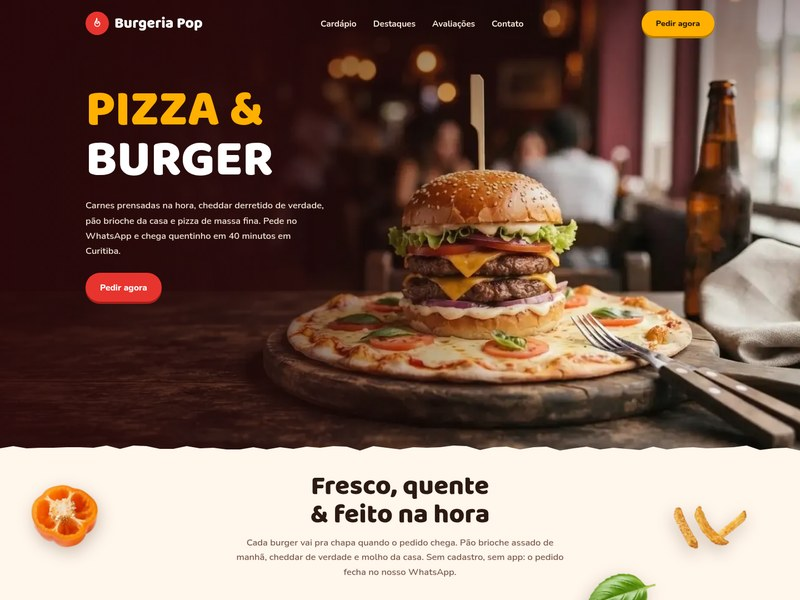
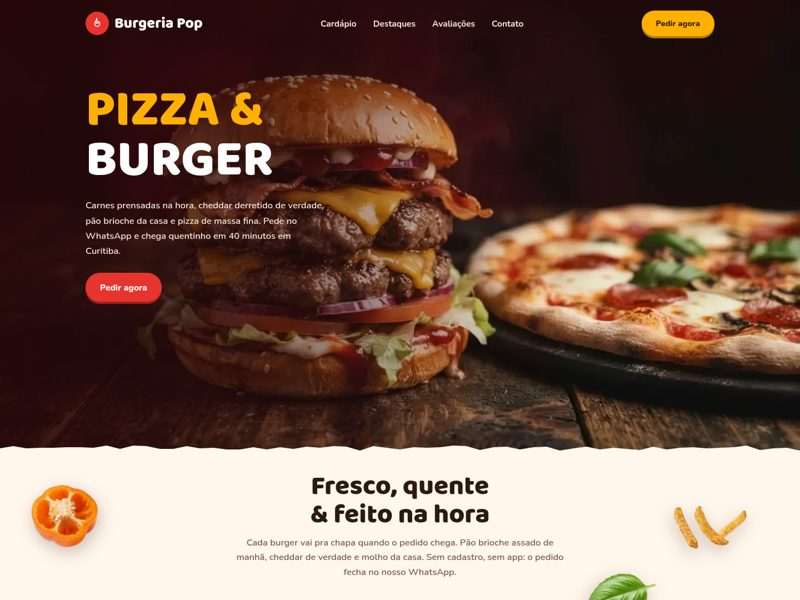
burgeria-pop: novas fotos hero e trio

diff --git a/src/components/models/BurgerPopFold.tsx b/src/components/models/BurgerPopFold.tsx
@@ -194,7 +194,7 @@ export function BurgerPopFold({ client }: { client?: { name?: string; whatsapp?:
         @media(min-width:861px){.bp .mnav{display:none}}
 
         .bp .hero2{position:relative;background:#3b0b0e;color:#fff;overflow:hidden;min-height:clamp(560px,58vw,860px)}
-        .bp .hbg{position:absolute;inset:0;width:100%;height:100%;object-fit:cover;object-position:70% 50%}
+        .bp .hbg{position:absolute;inset:0;width:100%;height:100%;object-fit:cover;object-position:0% 50%}
         .bp .hsh{position:absolute;inset:0;background:linear-gradient(90deg,rgba(40,6,8,.82) 0%,rgba(40,6,8,.45) 40%,rgba(40,6,8,0) 70%),linear-gradient(180deg,rgba(40,6,8,.4),rgba(40,6,8,0) 30%)}
         .bp .hin2{position:relative;z-index:2;padding-bottom:140px}
         .bp .hero2 .logo{color:#fff}
@@ -208,8 +208,8 @@ export function BurgerPopFold({ client }: { client?: { name?: string; whatsapp?:
         .bp .torn.b{bottom:-1px}.bp .torn.t{top:-1px}.bp .torn.bo{bottom:-1px}
         .bp .fresh{padding:6px 0 14px}
         .bp .fresh h2{font-weight:800}
-        .bp .orange{position:relative;background:#e7992f;padding:26px 0 30px}
-        .bp .trio{display:block;width:100%;max-width:1440px;aspect-ratio:2.7/1;object-fit:cover;object-position:50% 46%;margin:0 auto;-webkit-mask-image:radial-gradient(ellipse 62% 70% at 50% 50%,#000 55%,transparent 100%);mask-image:radial-gradient(ellipse 62% 70% at 50% 50%,#000 55%,transparent 100%)}
+        .bp .orange{position:relative;background:#d9942a;padding:0}
+        .bp .trio{display:block;width:100%;max-width:1440px;aspect-ratio:3/1;object-fit:cover;object-position:50% 50%;margin:0 auto}
         .bp .trio-btns{display:flex;gap:10px;justify-content:center;flex-wrap:wrap;margin-top:22px}
         .bp .chip{background:#fff;color:${INK};border:0;border-radius:999px;padding:11px 18px;font-weight:800;font-size:13.5px;cursor:pointer;box-shadow:0 3px 0 rgba(0,0,0,.15)}
         .bp .chip:hover{background:${CR}}
